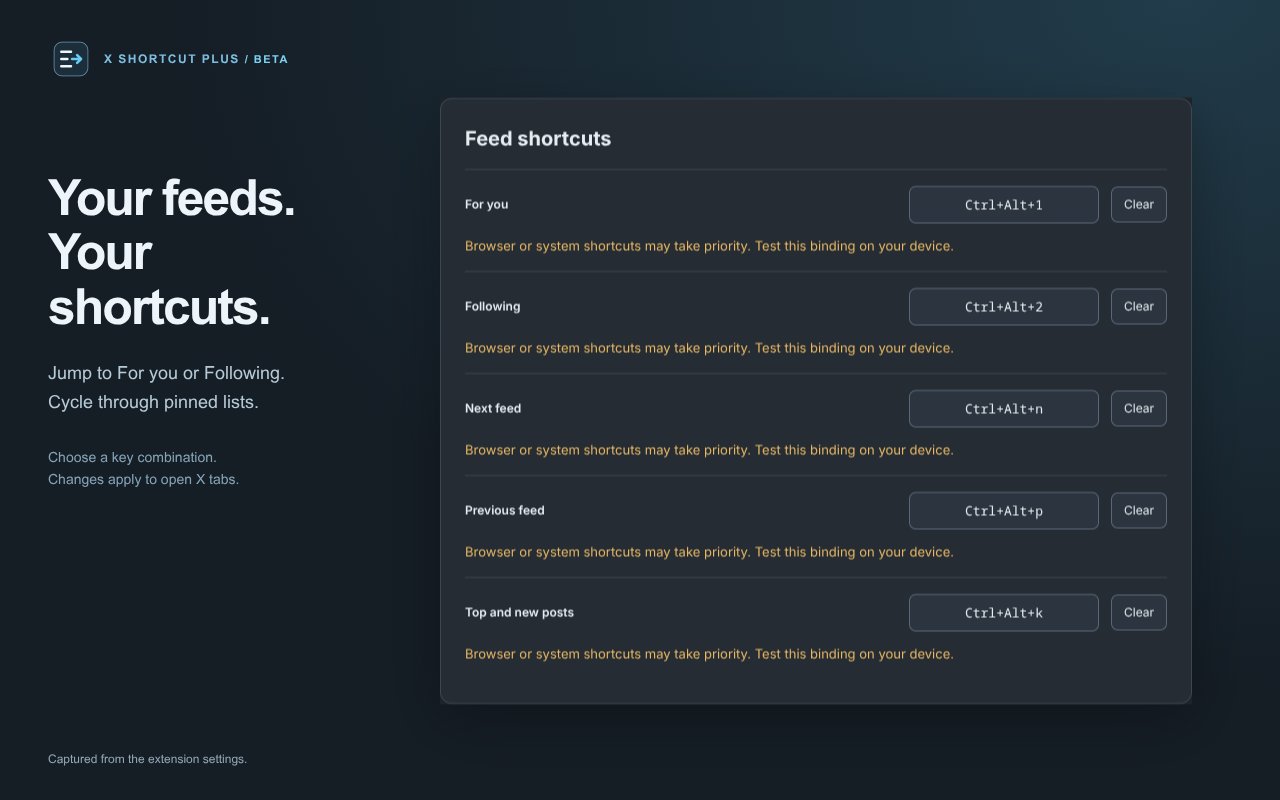
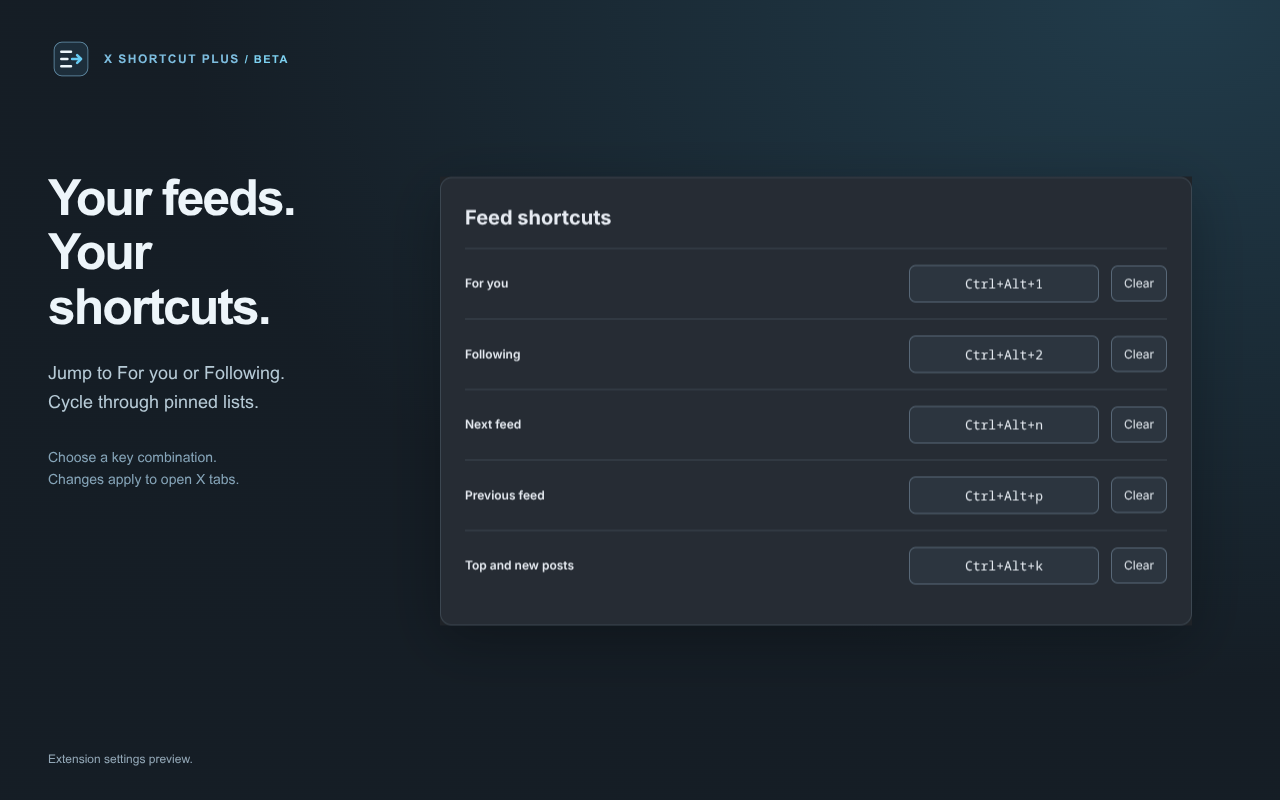
Clean warning rows from store screenshot previews

diff --git a/store-assets/source/screenshot-02-pinned-lists.html b/store-assets/source/screenshot-02-pinned-lists.html
@@ -1,1 +1,1 @@
-<!doctype html><html lang="en"><head><meta charset="utf-8"><title>screenshot-02-pinned-lists</title><style>*{box-sizing:border-box}html,body{margin:0;width:100%;height:100%;overflow:hidden}body{font-family:Arial,Helvetica,sans-serif;background:#0c1720;color:#edf5fa}p,h1,h2{margin:0}.canvas{width:100vw;height:100vh;position:relative;background:radial-gradient(ellipse at 92% 0%,#173949 0%,#0c1720 60%)}.brand{display:flex;align-items:center;gap:10px;font-size:12px;font-weight:700;letter-spacing:1.5px;color:#76bedf}.brand img{width:46px;height:46px}.beta{font-size:11px;letter-spacing:1.5px;color:#72d2f1}.caption{position:absolute;bottom:34px;left:48px;font-size:12px;color:#91a8b7}.copy{position:absolute;left:48px;top:170px;width:300px}h1{font-size:50px;letter-spacing:-2px;line-height:1.09;font-weight:700}.copy p{font-size:18px;line-height:1.6;color:#b6cbd7;margin-top:25px}.copy .note{font-size:14px;line-height:1.6;margin-top:30px;color:#83a5b9}.shot{position:absolute;left:400px;top:65px;width:832px;height:672px;display:flex;align-items:center;justify-content:center}.shot img{max-width:100%;max-height:100%;object-fit:contain;filter:drop-shadow(0 16px 28px #0004)}.topbrand{position:absolute;left:48px;top:36px}</style></head><body><div class="canvas"><div class="topbrand"><div class="brand"><img src="../icon.svg" alt=""><span>X SHORTCUT PLUS <span class="beta">/ BETA</span></span></div></div><div class="copy"><h1>Tabs move.<br>Shortcuts stay.</h1><p>Assign a shortcut to each pinned list. Keep its binding when tabs move or names change.</p><p class="note">Separate discovery for each account.<br>Settings stay in your browser.</p></div><div class="shot"><img src="settings-lists.png" alt="Actual pinned-list settings with example data"></div><div class="caption">Actual settings shown with example account and list data.</div></div></body></html>
+<!doctype html><html lang="en"><head><meta charset="utf-8"><title>screenshot-02-pinned-lists</title><style>*{box-sizing:border-box}html,body{margin:0;width:100%;height:100%;overflow:hidden}body{font-family:Arial,Helvetica,sans-serif;background:#0c1720;color:#edf5fa}p,h1,h2{margin:0}.canvas{width:100vw;height:100vh;position:relative;background:radial-gradient(ellipse at 92% 0%,#173949 0%,#0c1720 60%)}.brand{display:flex;align-items:center;gap:10px;font-size:12px;font-weight:700;letter-spacing:1.5px;color:#76bedf}.brand img{width:46px;height:46px}.beta{font-size:11px;letter-spacing:1.5px;color:#72d2f1}.caption{position:absolute;bottom:34px;left:48px;font-size:12px;color:#91a8b7}.copy{position:absolute;left:48px;top:170px;width:300px}h1{font-size:50px;letter-spacing:-2px;line-height:1.09;font-weight:700}.copy p{font-size:18px;line-height:1.6;color:#b6cbd7;margin-top:25px}.copy .note{font-size:14px;line-height:1.6;margin-top:30px;color:#83a5b9}.shot{position:absolute;left:400px;top:65px;width:832px;height:672px;display:flex;align-items:center;justify-content:center}.shot img{max-width:100%;max-height:100%;object-fit:contain;filter:drop-shadow(0 16px 28px #0004)}.topbrand{position:absolute;left:48px;top:36px}</style></head><body><div class="canvas"><div class="topbrand"><div class="brand"><img src="../icon.svg" alt=""><span>X SHORTCUT PLUS <span class="beta">/ BETA</span></span></div></div><div class="copy"><h1>Tabs move.<br>Shortcuts stay.</h1><p>Assign a shortcut to each pinned list. Keep its binding when tabs move or names change.</p><p class="note">Separate discovery for each account.<br>Settings stay in your browser.</p></div><div class="shot"><img src="settings-lists.png" alt="Actual pinned-list settings with example data"></div><div class="caption">Settings preview with example account and list data.</div></div></body></html>

diff --git a/store-assets/source/screenshot-01-shortcuts.html b/store-assets/source/screenshot-01-shortcuts.html
@@ -1,1 +1,1 @@
-<!doctype html><html lang="en"><head><meta charset="utf-8"><title>screenshot-01-shortcuts</title><style>*{box-sizing:border-box}html,body{margin:0;width:100%;height:100%;overflow:hidden}body{font-family:Arial,Helvetica,sans-serif;background:#0c1720;color:#edf5fa}p,h1,h2{margin:0}.canvas{width:100vw;height:100vh;position:relative;background:radial-gradient(ellipse at 92% 0%,#173949 0%,#0c1720 60%)}.brand{display:flex;align-items:center;gap:10px;font-size:12px;font-weight:700;letter-spacing:1.5px;color:#76bedf}.brand img{width:46px;height:46px}.beta{font-size:11px;letter-spacing:1.5px;color:#72d2f1}.caption{position:absolute;bottom:34px;left:48px;font-size:12px;color:#91a8b7}.copy{position:absolute;left:48px;top:170px;width:300px}h1{font-size:50px;letter-spacing:-2px;line-height:1.09;font-weight:700}.copy p{font-size:18px;line-height:1.6;color:#b6cbd7;margin-top:25px}.copy .note{font-size:14px;line-height:1.6;margin-top:30px;color:#83a5b9}.shot{position:absolute;left:400px;top:65px;width:832px;height:672px;display:flex;align-items:center;justify-content:center}.shot img{max-width:100%;max-height:100%;object-fit:contain;filter:drop-shadow(0 16px 28px #0004)}.topbrand{position:absolute;left:48px;top:36px}</style></head><body><div class="canvas"><div class="topbrand"><div class="brand"><img src="../icon.svg" alt=""><span>X SHORTCUT PLUS <span class="beta">/ BETA</span></span></div></div><div class="copy"><h1>Your feeds.<br>Your shortcuts.</h1><p>Jump to For you or Following.<br>Cycle through pinned lists.</p><p class="note">Choose a key combination.<br>Changes apply to open X tabs.</p></div><div class="shot"><img src="settings-shortcuts.png" alt="Actual shortcut settings"></div><div class="caption">Captured from the extension settings.</div></div></body></html>
+<!doctype html><html lang="en"><head><meta charset="utf-8"><title>screenshot-01-shortcuts</title><style>*{box-sizing:border-box}html,body{margin:0;width:100%;height:100%;overflow:hidden}body{font-family:Arial,Helvetica,sans-serif;background:#0c1720;color:#edf5fa}p,h1,h2{margin:0}.canvas{width:100vw;height:100vh;position:relative;background:radial-gradient(ellipse at 92% 0%,#173949 0%,#0c1720 60%)}.brand{display:flex;align-items:center;gap:10px;font-size:12px;font-weight:700;letter-spacing:1.5px;color:#76bedf}.brand img{width:46px;height:46px}.beta{font-size:11px;letter-spacing:1.5px;color:#72d2f1}.caption{position:absolute;bottom:34px;left:48px;font-size:12px;color:#91a8b7}.copy{position:absolute;left:48px;top:170px;width:300px}h1{font-size:50px;letter-spacing:-2px;line-height:1.09;font-weight:700}.copy p{font-size:18px;line-height:1.6;color:#b6cbd7;margin-top:25px}.copy .note{font-size:14px;line-height:1.6;margin-top:30px;color:#83a5b9}.shot{position:absolute;left:400px;top:65px;width:832px;height:672px;display:flex;align-items:center;justify-content:center}.shot img{max-width:100%;max-height:100%;object-fit:contain;filter:drop-shadow(0 16px 28px #0004)}.topbrand{position:absolute;left:48px;top:36px}</style></head><body><div class="canvas"><div class="topbrand"><div class="brand"><img src="../icon.svg" alt=""><span>X SHORTCUT PLUS <span class="beta">/ BETA</span></span></div></div><div class="copy"><h1>Your feeds.<br>Your shortcuts.</h1><p>Jump to For you or Following.<br>Cycle through pinned lists.</p><p class="note">Choose a key combination.<br>Changes apply to open X tabs.</p></div><div class="shot"><img src="settings-shortcuts.png" alt="Actual shortcut settings"></div><div class="caption">Extension settings preview.</div></div></body></html>

diff --git a/docs/store/README.md b/docs/store/README.md
@@ -23,7 +23,7 @@ The store asset ZIP contains artwork and text. Do not upload it as the extension
 
 Both screenshots include actual captures of the extension's settings page. They are framed with explanatory captions. The list example uses a temporary local profile, username `example`, fictional list names, and example numeric IDs. The displayed list bindings are examples, not shipped defaults. No actual X account, posts, credentials, or private messages appear in the captures.
 
-The feed screenshot uses the shipped Ctrl+Alt defaults. The pinned-list screenshot shows separate assigned bindings and the same native browser/system cautions that appear in the real UI. See `source/` in the repository for capture images and rendered artwork sources.
+The feed screenshot uses the shipped Ctrl+Alt defaults. The pinned-list screenshot shows separate assigned bindings with generic yellow cautions hidden for the store artwork. The actual extension still displays its warnings. Raw, unmodified captures are retained as `settings-shortcuts-raw.png` and `settings-lists-raw.png` in the repository’s `store-assets/source/` directory. See `source/` in the repository for capture images and rendered artwork sources.
 
 The icon is an original vector feed-and-arrow mark. It does not use X's logo. PNG sizes 16, 32, 48, and 128 are included in the extension; 512 is supplied as an editable/export reference alongside the SVG.
 

diff --git a/docs/verification.md b/docs/verification.md
@@ -161,3 +161,9 @@ The privacy policy and dashboard copy describe actual local account/list metadat
 This task prepared upload assets and a store-ready package. No Chrome Web Store upload, legal agreement, review submission, or approval occurred. Google still reviews the submitted product and declarations.
 
 References checked for asset preparation: https://developer.chrome.com/docs/webstore/cws-dashboard-listing, https://developer.chrome.com/docs/webstore/images, and https://developer.chrome.com/docs/webstore/program-policies/user-data-faq.
+
+## 2026-11-13: clean store screenshot previews
+
+At the tester's request, yellow warning rows are hidden only in the temporary screenshot-capture page. Production CSS, warnings, shortcut behavior, and the extension upload ZIP are unchanged. Raw captures with warnings are retained in `store-assets/source/*-raw.png` for provenance.
+
+Regenerated both 1280×800 screenshot previews and visually checked them. The image-dimension and asset-ZIP integrity checks passed. The store asset pack and its checksum were refreshed without changing the extension version or package.

diff --git a/docs/releases/1.0.6-beta.1.md b/docs/releases/1.0.6-beta.1.md
@@ -4,7 +4,7 @@ Chrome Web Store preparation build. Keyboard behavior, Ctrl+Alt defaults, local 
 
 - Added original PNG extension/toolbar icons at 16, 32, 48, and 128 pixels.
 - Added a public privacy policy describing local account/list metadata and shortcut handling, with a disclosure and policy link in settings.
-- Prepared two store screenshots, a 440×280 promotional tile, and a 1400×560 marquee image.
+- Prepared two store screenshots, a 440×280 promotional tile, and a 1400×560 marquee image. The screenshot previews hide generic yellow cautions; the actual extension still shows its warnings.
 - Added copy-ready listing, permission explanations, and reviewer test instructions.
 - Updated packaging to include nested icon files and validate their manifest paths.
 
